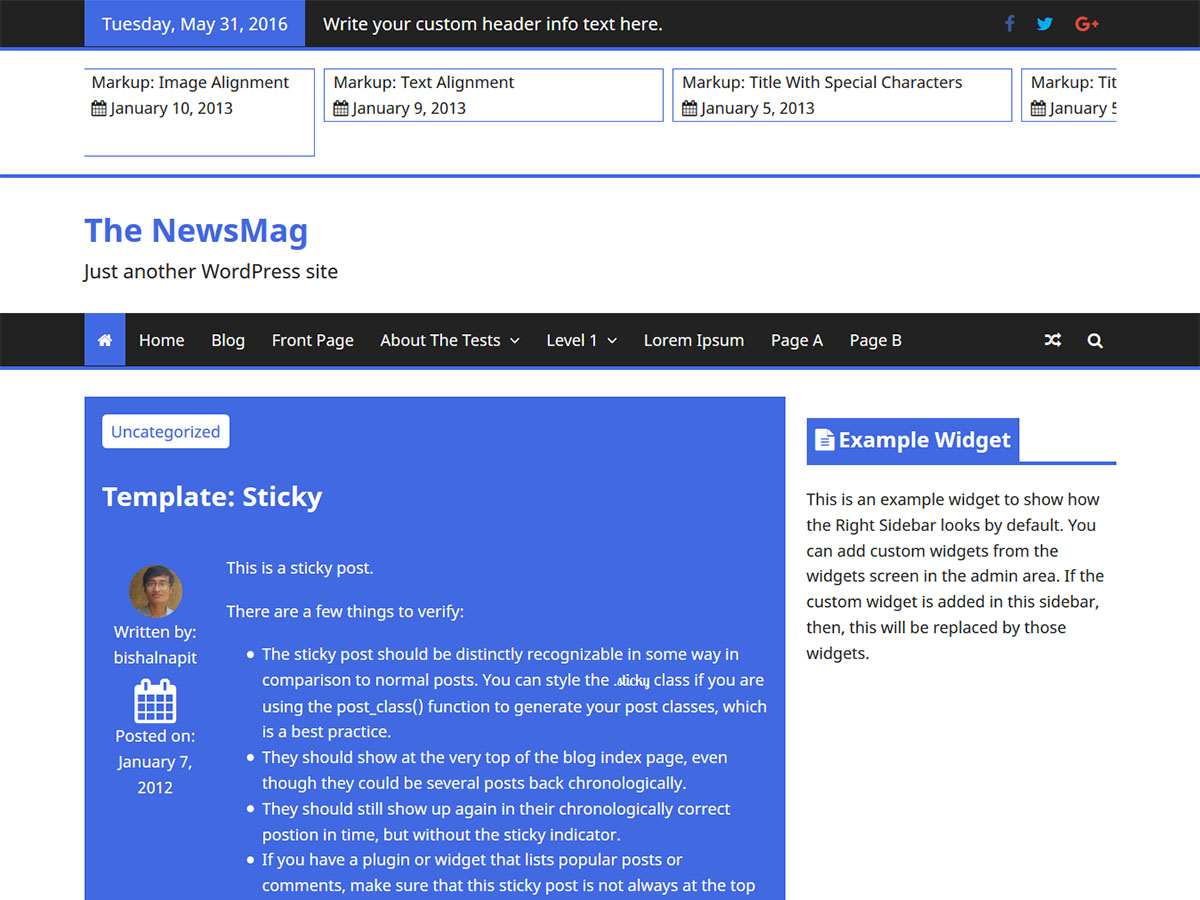
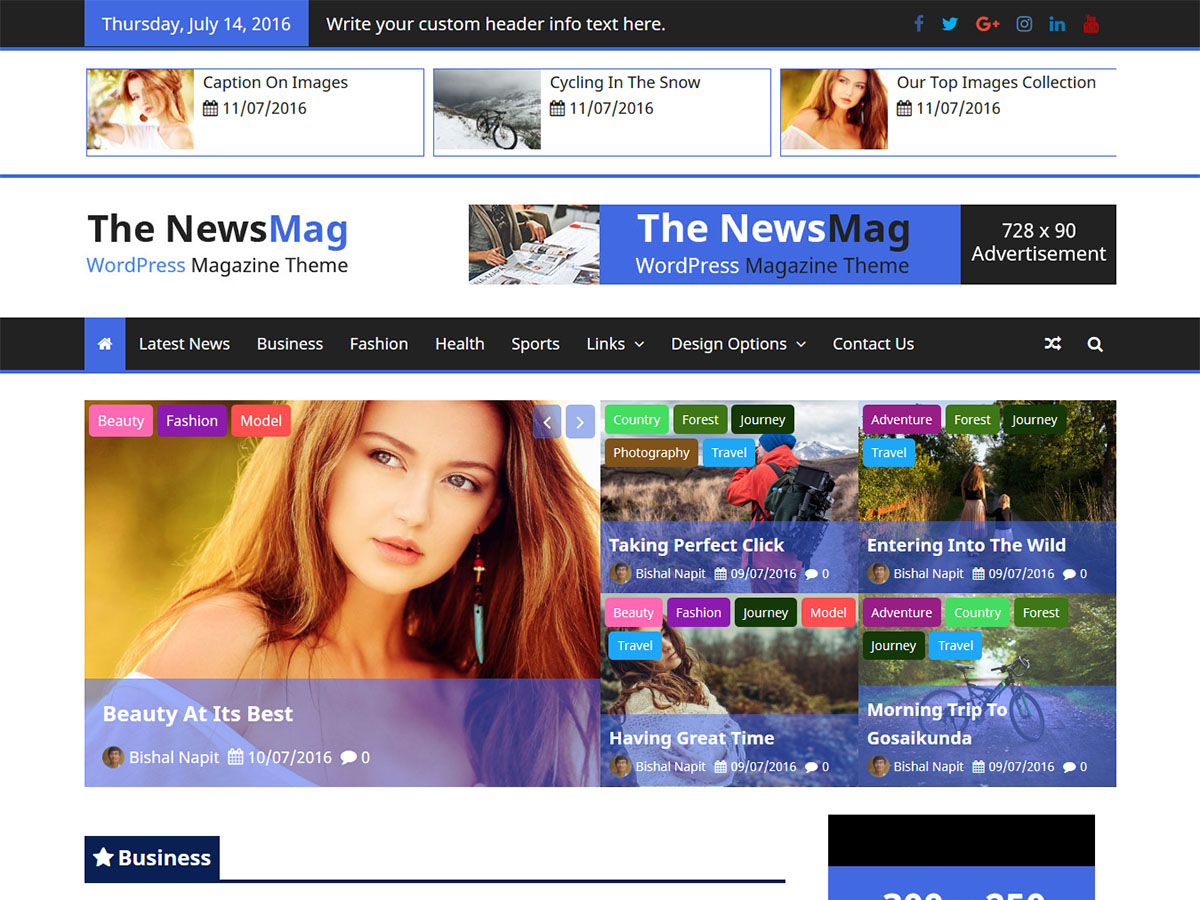
Screenshot Changed

diff --git a/readme.md b/readme.md
@@ -9,6 +9,15 @@
   SIL Open Font License, 1.1
 
 #### Resources packed within the theme.
+* Images in the screenshot is from http://pixabay.com/. License: CC0 Public Domain  
+    Links: https://pixabay.com/en/beauty-woman-portrait-face-hair-1319951/  
+           https://pixabay.com/en/gravel-road-lady-walking-road-1031726/  
+           https://pixabay.com/en/guess-attic-girl-woman-pretty-hair-837156/  
+           https://pixabay.com/en/mountain-bike-dirt-road-wet-1149074/  
+           https://pixabay.com/en/girl-read-reading-newspaper-791231/  
+           https://pixabay.com/en/portrait-woman-girl-beautiful-woman-1462944/  
+           https://pixabay.com/en/snow-bike-winter-landscape-1498454/  
+           https://pixabay.com/en/photographers-scenery-nature-1150033/  
 * Font Awesome by Dave Gandy http://fortawesome.github.io/Font-Awesome/  
   SIL OFL 1.1 http://scripts.sil.org/OFL.
 * HTML5 Shiv by Alexander Farkas, Jonathan Neal | MIT/GPL2 Licensed
@@ -20,6 +29,7 @@
 * Magnific Popup by Dmitry Semenov | MIT Licensed
 * FitVids by Chris Coyier and Paravel | WTFPL Licensed
 * Other custom js files are our own creation and is licensed under the same license as this theme.
+* Other custom images in screenshot are our own creation and is licensed under the same license as this theme.
 
 All other resources and theme elements are licensed under the [GNU GPL](http://www.gnu.org/licenses/gpl-3.0.txt), version 3 or later.
 
@@ -39,6 +49,7 @@ If you would like to contribute to the translations of this theme to your native
 
 ## CHANGELOG
 #### VERSION 0.2
+* Screenshot Changed
 * Added TNM: Posts Slider Widget
 * Added TNM: Posts Grid Widget
 * Added TNM: Posts One Column Widget
